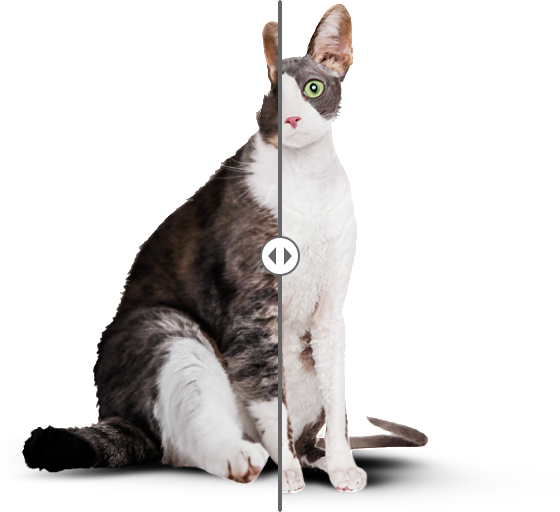
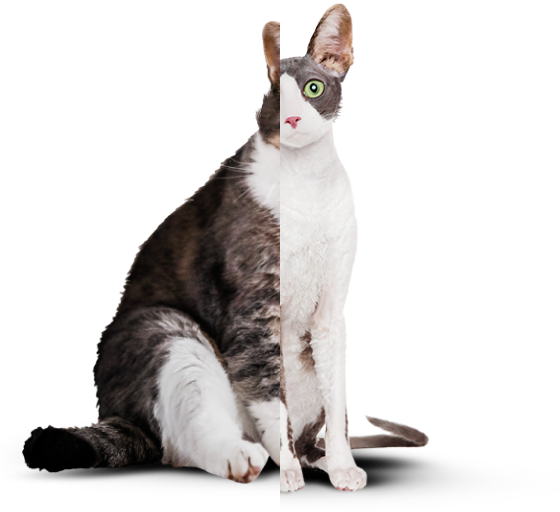
исправлены ошибки

Changed region(s): [[0.4554, 0.0, 0.5464, 1.0]]

diff --git a/source/less/blocks/header.less b/source/less/blocks/header.less
@@ -109,6 +109,15 @@
   flex-wrap: wrap;
   z-index: 2;
 
+  &:has(.header__nav--nojs) {
+    @media (max-width: 767px) {
+      flex-direction: column;
+      align-items: stretch;
+      padding: 0;
+      padding-top: 10px;
+    }
+  }
+
   &--underline {
     border-bottom: 1px solid @special-grey;
 
@@ -124,6 +133,10 @@
   @media (min-width: @desktop-width) {
     padding: 53px 110px 29px;
   }
+}
+
+.header--underline:has(.header__nav--nojs) {
+  border-bottom: none;
 }
 
 .header__nav--closed .header__toggle {
@@ -167,14 +180,6 @@
   display: none;
 }
 
-.header__nav--nojs .header__list {
-  display: block;
-  width: calc(100% - 40px);
-  position: static;
-  margin-top: 20px;
-  z-index: 2;
-}
-
 .header__nav--closed .header__list {
   display: none;
 
@@ -183,6 +188,15 @@
   }
 }
 
+.header__nav--nojs .header__list {
+  @media (max-width: 767px) {
+    display: block;
+    width: 100%;
+    position: static;
+    margin-top: 10px;
+    z-index: 2;
+  }
+}
 
 .header__toggle {
   border: 0;
@@ -204,6 +218,12 @@
 
 .header__nav {
   margin-left: auto;
+}
+
+.header__nav--nojs {
+  @media (max-width: 767px) {
+    margin-left: 0;
+  }
 }
 
 .header__list--white .header__link {

diff --git a/source/less/blocks/calculation-slider.less b/source/less/blocks/calculation-slider.less
@@ -1,5 +1,32 @@
 .calculation-slider__button {
-  display: none;
+  width: 40px;
+  height: 100%;
+  background-image: url("../../img/calculation-slider__button.png");
+  background-repeat: no-repeat;
+  background-position: center;
+  border: 0;
+  background-color: transparent;
+  padding: 0;
+  position: absolute;
+  top: 0;
+  left: 0;
+  bottom: 0;
+  right: 0;
+  margin: auto;
+  transform-style: preserve-3d;
+
+  &::before {
+    content: "";
+    width: 4px;
+    height: 100%;
+    background-color: @special-dark-grey-2;
+    position: absolute;
+    top: 0;
+    left: 0;
+    right: 0;
+    margin: 0 auto;
+    transform: translateZ(-1px);
+  }
 }
 
 .calculation-slider__photo {

diff --git a/source/less/blocks/diet-form.less b/source/less/blocks/diet-form.less
@@ -146,6 +146,12 @@
   }
 }
 
+.diet-form__input::-webkit-outer-spin-button,
+.diet-form__input::-webkit-inner-spin-button {
+  appearance: none;
+  margin: 0;
+}
+
 .diet-form__wrapper {
   width: 100%;
   display: grid;

diff --git a/source/less/global/variables.less b/source/less/global/variables.less
@@ -10,5 +10,6 @@
 @black: #000000;
 @special-black: #111111;
 @special-dark-grey: #222222;
+@special-dark-grey-2: #666666;
 @tablet-width: 768px;
 @desktop-width: 1440px;

diff --git a/source/less/blocks/progress-calculation.less b/source/less/blocks/progress-calculation.less
@@ -145,6 +145,7 @@
 }
 
 .progress-calculation__slider {
+  position: relative;
   margin-top: 20px;
 
   @media (min-width: @tablet-width) {
